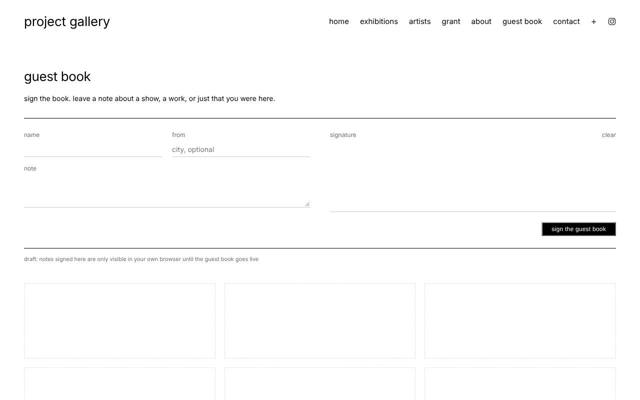
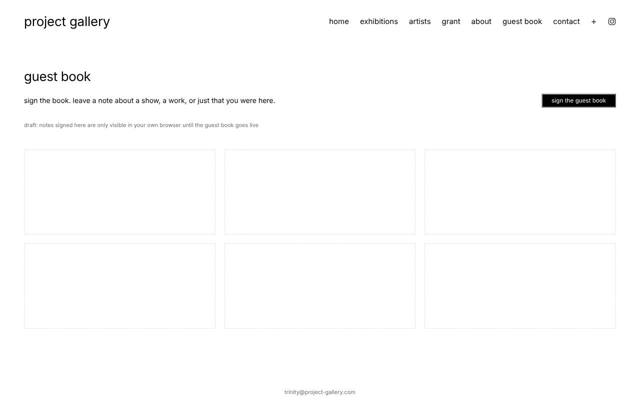
Guest book: sign button opens the form, signature leads each note as a thin vector line, optional text marks
Claude-Session: https://claude.ai/code/session_01JDvyBS7JT6BmRY19jA3qLE

diff --git a/index.html b/index.html
@@ -200,7 +200,11 @@ body.arriving #view-show { animation: arrive 1.4s cubic-bezier(.16, .8, .3, 1) b
 .c-item .save { margin: 0 0 0 10px; font-size: 15px; }
 
 /* guest book */
-.gb-intro { max-width: 640px; text-align: justify; margin: -12px 0 28px; }
+.gb-top { display: flex; justify-content: space-between; align-items: center; gap: 24px; margin: -12px 0 28px; }
+.gb-intro { max-width: 640px; text-align: justify; margin: 0; }
+.gb-open { flex: 0 0 auto; }
+.gb-form:not([hidden]) { animation: gb-drop .35s ease-out; }
+@keyframes gb-drop { from { opacity: 0; transform: translateY(-8px); } to { opacity: 1; transform: none; } }
 .gb-form { display: grid; grid-template-columns: 1fr 1fr; gap: 20px 40px; padding: 24px 0; border-top: 1px solid var(--ink); border-bottom: 1px solid var(--ink); }
 .gb-fields { display: grid; grid-template-columns: 1fr 1fr; gap: 14px 20px; align-content: start; }
 .gb-fields label, .gb-sign-label { display: flex; flex-direction: column; gap: 6px; font-size: 12px; color: var(--muted); }
@@ -210,15 +214,23 @@ body.arriving #view-show { animation: arrive 1.4s cubic-bezier(.16, .8, .3, 1) b
 .gb-sign-label { flex-direction: row; justify-content: space-between; }
 .gb-clear { background: none; border: 0; padding: 0; font: inherit; color: var(--muted); cursor: pointer; }
 .gb-clear:hover { text-shadow: var(--glow); }
-#gb-pad { width: 100%; height: 140px; border-bottom: 1px solid #c9c9c9; touch-action: none; cursor: crosshair; display: block; margin-top: 6px; }
+#gb-pad { width: 100%; height: 160px; border-bottom: 1px solid #c9c9c9; touch-action: none; cursor: crosshair; display: block; margin-top: 6px; }
 .gb-actions { grid-column: 1 / -1; display: flex; justify-content: space-between; align-items: center; gap: 20px; }
 .gb-msg { margin: 0; font-size: 12px; color: var(--muted); }
 .gb-draft { font-size: 11px; margin: 14px 0 40px; }
+.gb-syms { display: flex; flex-wrap: wrap; align-items: baseline; gap: 6px 14px; margin-top: 12px; font-size: 12px; color: var(--muted); }
+.gb-sym { background: none; border: 0; padding: 2px 0; font-family: ui-monospace, "SF Mono", Menlo, monospace; font-size: 12px; color: var(--muted); cursor: pointer; transition: color .15s, text-shadow .2s; }
+.gb-sym:hover { text-shadow: var(--glow); color: var(--ink); }
+.gb-sym[aria-checked="true"] { color: var(--ink); text-decoration: underline; text-underline-offset: 4px; }
+#gb-sym-list { display: inline-flex; flex-wrap: wrap; gap: 6px 14px; }
 .gb-grid { display: grid; grid-template-columns: repeat(auto-fill, minmax(min(100%, 340px), 1fr)); gap: 18px; }
-.gb-entry { border: 1px solid #dcdcdc; padding: 18px 20px 14px; min-height: 150px; display: flex; flex-direction: column; justify-content: space-between; gap: 12px; font-size: 13px; }
+.gb-entry { border: 1px solid #dcdcdc; padding: 16px 20px 14px; min-height: 170px; display: flex; flex-direction: column; gap: 10px; font-size: 12px; }
+.gb-sig { height: 78px; width: 100%; display: block; }
+.gb-sig svg { height: 100%; width: auto; max-width: 100%; display: block; overflow: visible; }
+.gb-sig img { height: 100%; width: auto; max-width: 100%; display: block; }
 .gb-entry p { margin: 0; text-align: justify; line-height: 1.55; }
-.gb-entry footer, .gb-entry .gb-by { display: flex; justify-content: space-between; align-items: flex-end; gap: 12px; font-size: 11px; color: var(--muted); padding: 0; }
-.gb-entry img { height: 44px; width: auto; max-width: 55%; }
+.gb-entry .gb-by { margin-top: auto; display: flex; justify-content: space-between; align-items: flex-end; gap: 12px; font-size: 11px; color: var(--muted); }
+.gb-mark { font-family: ui-monospace, "SF Mono", Menlo, monospace; font-size: 11px; color: var(--ink); white-space: pre; }
 .gb-entry.empty { border-style: dashed; color: #b5b5b5; justify-content: center; align-items: center; }
 
 /* footer */
@@ -240,6 +252,7 @@ footer a:hover { text-shadow: var(--glow); }
   .work-caption { text-align: left; }
   .work.center { width: 100%; }
   .gb-form, .gb-fields { grid-template-columns: 1fr; }
+  .gb-top { flex-direction: column; align-items: flex-start; }
   .pair { grid-template-columns: 1fr; padding: 0; gap: 64px; }
   .work.right .work-image, .work.right .work-caption { grid-column: auto; grid-row: auto; }
   .works { gap: 96px; }
@@ -335,8 +348,11 @@ footer a:hover { text-shadow: var(--glow); }
   <!-- GUEST BOOK -->
   <section class="view" id="view-guestbook">
     <h1 class="page-title">guest book</h1>
-    <p class="gb-intro" id="gb-intro"></p>
-    <form class="gb-form" id="gb-form" novalidate>
+    <div class="gb-top">
+      <p class="gb-intro" id="gb-intro"></p>
+      <button class="enter gb-open" id="gb-open" aria-expanded="false" aria-controls="gb-form">sign the guest book</button>
+    </div>
+    <form class="gb-form" id="gb-form" novalidate hidden>
       <div class="gb-fields">
         <label for="gb-name">name<input id="gb-name" maxlength="60" autocomplete="name" required></label>
         <label for="gb-place">from<input id="gb-place" maxlength="60" placeholder="city, optional"></label>
@@ -344,9 +360,13 @@ footer a:hover { text-shadow: var(--glow); }
       </div>
       <div class="gb-sign">
         <span class="gb-sign-label">signature <button type="button" class="gb-clear" id="gb-clear">clear</button></span>
-        <canvas id="gb-pad" width="560" height="140" aria-label="Draw your signature"></canvas>
+        <canvas id="gb-pad" width="560" height="160" aria-label="Draw your signature"></canvas>
+        <div class="gb-syms" role="radiogroup" aria-label="add a mark">
+          <span class="gb-sym-label">add a mark</span>
+          <span id="gb-sym-list"></span>
+        </div>
       </div>
-      <div class="gb-actions"><p class="gb-msg" id="gb-msg" role="status"></p><button class="enter" type="submit">sign the guest book</button></div>
+      <div class="gb-actions"><p class="gb-msg" id="gb-msg" role="status"></p><button class="enter" type="submit">sign</button></div>
     </form>
     <p class="construction gb-draft">draft: notes signed here are only visible in your own browser until the guest book goes live</p>
     <div class="gb-grid" id="gb-grid"></div>
@@ -882,13 +902,60 @@ function renderGrant() {
 /* guest book (draft: stored in this browser until it is connected to the site's database) */
 const GB_STORE = "pg-guestbook-draft";
 const gbPad = document.getElementById("gb-pad"), gbCtx = gbPad.getContext("2d");
-let gbDrawing = false, gbInked = false;
-function gbPoint(e) { const r = gbPad.getBoundingClientRect(); return [(e.clientX - r.left) * gbPad.width / r.width, (e.clientY - r.top) * gbPad.height / r.height]; }
-gbCtx.lineWidth = 2; gbCtx.lineCap = "round"; gbCtx.lineJoin = "round"; gbCtx.strokeStyle = "#000";
-gbPad.addEventListener("pointerdown", e => { gbDrawing = true; gbInked = true; gbPad.setPointerCapture(e.pointerId); gbCtx.beginPath(); gbCtx.moveTo(...gbPoint(e)); });
-gbPad.addEventListener("pointermove", e => { if (!gbDrawing) return; gbCtx.lineTo(...gbPoint(e)); gbCtx.stroke(); });
+// small marks drawn from text, net-art style
+const GB_MARKS = ["", "✶", ":)", "<3", "°˖✧", "~~~", "[•]", "-->", "∞", "(•‿•)", "¯\\_(ツ)_/¯"];
+let gbDrawing = false, gbStrokes = [], gbMark = "";
+function gbPoint(e) { const r = gbPad.getBoundingClientRect(); return [Math.round((e.clientX - r.left) * gbPad.width / r.width), Math.round((e.clientY - r.top) * gbPad.height / r.height)]; }
+gbCtx.lineWidth = 1.2; gbCtx.lineCap = "round"; gbCtx.lineJoin = "round"; gbCtx.strokeStyle = "#000";
+gbPad.addEventListener("pointerdown", e => { gbDrawing = true; gbPad.setPointerCapture(e.pointerId); const pt = gbPoint(e); gbStrokes.push([pt]); gbCtx.beginPath(); gbCtx.moveTo(...pt); });
+gbPad.addEventListener("pointermove", e => { if (!gbDrawing) return; const pt = gbPoint(e); gbStrokes[gbStrokes.length - 1].push(pt); gbCtx.lineTo(...pt); gbCtx.stroke(); });
 ["pointerup", "pointerleave", "pointercancel"].forEach(ev => gbPad.addEventListener(ev, () => { gbDrawing = false; }));
-document.getElementById("gb-clear").addEventListener("click", () => { gbCtx.clearRect(0, 0, gbPad.width, gbPad.height); gbInked = false; });
+function gbClearPad() { gbCtx.clearRect(0, 0, gbPad.width, gbPad.height); gbStrokes = []; }
+document.getElementById("gb-clear").addEventListener("click", gbClearPad);
+
+// mark picker
+const symList = document.getElementById("gb-sym-list");
+symList.innerHTML = GB_MARKS.map(m => `<button type="button" class="gb-sym" role="radio" aria-checked="${m === "" ? "true" : "false"}" data-m="${esc(m)}">${m ? esc(m) : "none"}</button>`).join("");
+symList.querySelectorAll(".gb-sym").forEach(b => b.addEventListener("click", () => {
+  gbMark = b.dataset.m;
+  symList.querySelectorAll(".gb-sym").forEach(x => x.setAttribute("aria-checked", String(x === b)));
+}));
+
+// open / close the signing form
+const gbOpen = document.getElementById("gb-open"), gbForm = document.getElementById("gb-form");
+gbOpen.addEventListener("click", () => {
+  const open = gbForm.hidden;
+  gbForm.hidden = !open;
+  gbOpen.setAttribute("aria-expanded", String(open));
+  gbOpen.textContent = open ? "close" : "sign the guest book";
+  if (open) document.getElementById("gb-name").focus();
+});
+
+// signature as a thin vector line (crisp at any size)
+function sigSVG(strokes, name) {
+  const pts = strokes.flat();
+  if (!pts.length) return "";
+  const xs = pts.map(p => p[0]), ys = pts.map(p => p[1]);
+  const pad = 4, x0 = Math.min(...xs) - pad, y0 = Math.min(...ys) - pad;
+  const w = Math.max(...xs) - x0 + pad, h = Math.max(...ys) - y0 + pad;
+  const d = strokes.map(st => st.length === 1 ? `M${st[0][0]} ${st[0][1]}h0.1` : "M" + st.map(p => p.join(" ")).join("L")).join("");
+  return `<svg viewBox="${x0} ${y0} ${w} ${h}" role="img" aria-label="signature of ${esc(name)}"><path d="${d}" fill="none" stroke="#000" stroke-width="1.1" stroke-linecap="round" stroke-linejoin="round" vector-effect="non-scaling-stroke"/></svg>`;
+}
+// older drafts saved the signature as a picture: thin its line by one pixel
+function thinPNG(img) {
+  try {
+    const c = document.createElement("canvas"); c.width = img.naturalWidth; c.height = img.naturalHeight;
+    const x = c.getContext("2d"); x.drawImage(img, 0, 0);
+    const src = x.getImageData(0, 0, c.width, c.height), out = x.createImageData(c.width, c.height), W = c.width;
+    for (let y = 1; y < c.height - 1; y++) for (let i = 1; i < W - 1; i++) {
+      const k = (y * W + i) * 4;
+      const m = Math.min(src.data[k + 3], src.data[k - 1], src.data[k + 7], src.data[k + 3 - W * 4], src.data[k + 3 + W * 4]);
+      out.data[k + 3] = Math.min(255, m * 1.6);
+    }
+    x.putImageData(out, 0, 0);
+    img.onload = null; img.src = c.toDataURL();
+  } catch (e) {}
+}
 
 function gbBlocked(text) {
   const t = " " + text.toLowerCase().replace(/[^a-z0-9]+/g, " ") + " ";
@@ -900,13 +967,16 @@ function renderGuestbook() {
   const notes = gbLoad();
   const fmt = d => new Date(d).toLocaleDateString("en-US", { month: "2-digit", day: "2-digit", year: "numeric" }).replace(/\//g, ".");
   let html = notes.map(n => `<article class="gb-entry">
+      <div class="gb-sig">${n.strokes ? sigSVG(n.strokes, n.name) : n.sig ? `<img src="${n.sig}" alt="signature of ${esc(n.name)}" data-thin>` : ""}</div>
       <p>${esc(n.note)}</p>
-      <div class="gb-by"><span>${esc(n.name)}${n.place ? " · " + esc(n.place) : ""} · ${fmt(n.date)}</span>${n.sig ? `<img src="${n.sig}" alt="signature of ${esc(n.name)}">` : ""}</div>
+      <div class="gb-by"><span>${esc(n.name)}${n.place ? " · " + esc(n.place) : ""} · ${fmt(n.date)}</span><span class="gb-mark">${esc(n.mark || "")}</span></div>
     </article>`).join("");
   for (let i = notes.length; i < 6; i++) html += '<div class="gb-entry empty" aria-hidden="true">&nbsp;</div>';
-  document.getElementById("gb-grid").innerHTML = html;
+  const grid = document.getElementById("gb-grid");
+  grid.innerHTML = html;
+  grid.querySelectorAll("img[data-thin]").forEach(im => { if (im.complete) thinPNG(im); else im.onload = () => thinPNG(im); });
 }
-document.getElementById("gb-form").addEventListener("submit", e => {
+gbForm.addEventListener("submit", e => {
   e.preventDefault();
   const name = document.getElementById("gb-name").value.trim();
   const place = document.getElementById("gb-place").value.trim();
@@ -915,9 +985,9 @@ document.getElementById("gb-form").addEventListener("submit", e => {
   if (!name || !note) { msg.textContent = "add your name and a note to sign"; return; }
   if (gbBlocked(name + " " + place + " " + note)) { msg.textContent = "please keep the guest book kind; edit your note and try again"; return; }
   const notes = gbLoad();
-  notes.unshift({ name, place, note, sig: gbInked ? gbPad.toDataURL("image/png") : "", date: Date.now() });
+  notes.unshift({ name, place, note, strokes: gbStrokes.filter(st => st.length), mark: gbMark, date: Date.now() });
   try { localStorage.setItem(GB_STORE, JSON.stringify(notes.slice(0, 50))); } catch (err) {}
-  e.target.reset(); gbCtx.clearRect(0, 0, gbPad.width, gbPad.height); gbInked = false;
+  e.target.reset(); gbClearPad();
   msg.textContent = "thank you for signing";
   renderGuestbook();
 });
